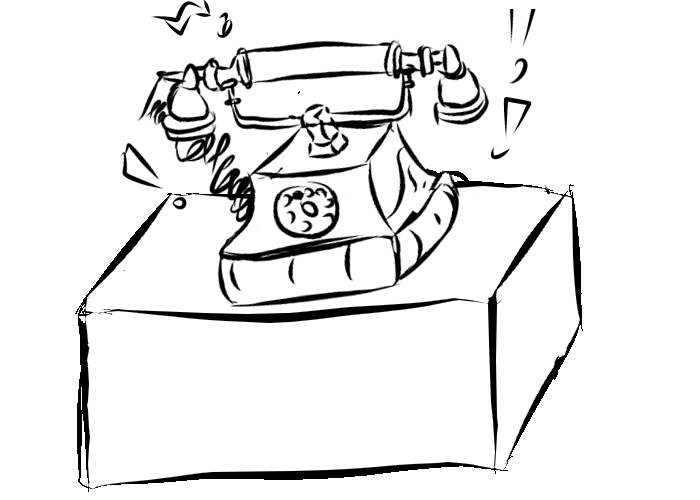
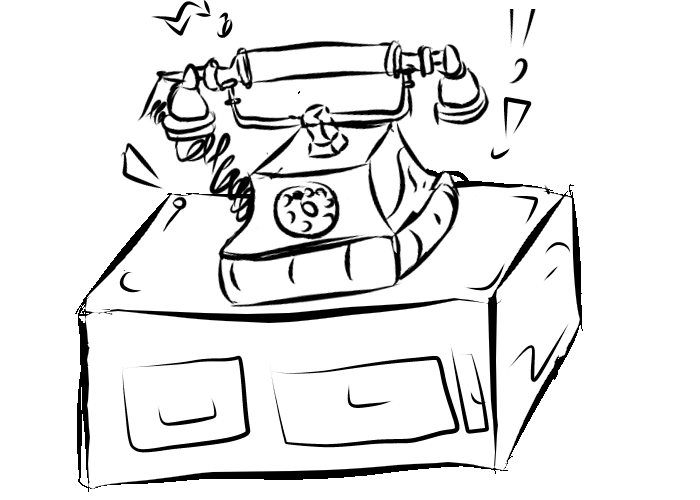
Change backGR adding phone door candle

diff --git a/main.py b/main.py
@@ -6,6 +6,7 @@ from kivy.clock import Clock
 from kivy.core.audio import SoundLoader
 from kivy.uix.label import Label
 from kivy.animation import Animation
+from kivy.uix.image import Image 
 
 class ClockDisplay :
     def __init__(self,hourv,minutev):
@@ -28,7 +29,6 @@ class NumberDisplay:
     def tick(self):
         self.v = self.v + 1        
 
-
 class Gamewidget(Widget):
     def __init__(self,**kwargs):
         super().__init__(**kwargs)
@@ -36,11 +36,12 @@ class Gamewidget(Widget):
         self._keyboard.bind(on_key_down=self._on_key_down)
         self._keyboard.bind(on_key_up=self._on_key_up)
         self.clock_display = ClockDisplay(0, 0)
-        self.clock_label = Label(text='', font_size=20, pos=(20, Window.height - 1))
-        self.add_widget(self.clock_label)
         self.register_event_type('on_frame')
+        
+
         with self.canvas :
-            pass
+            Rectangle(source='BackGR1.png',pos=(0,0),size=(Window.width,Window.height))
+            self.clock_label = Label(text='', font_size=20, pos=(20, Window.height - 100))
         
         self.soundBack = SoundLoader.load('backgroundsound1.wav')
         if self.soundBack:
@@ -52,8 +53,8 @@ class Gamewidget(Widget):
         self.keysPressed = set()
         self._entities = set()
 
-        Clock.schedule_interval(self._on_frame,0.45)
-        Clock.schedule_interval(self.update_clock_label, 1.5)
+        Clock.schedule_interval(self._on_frame,0.375)
+        Clock.schedule_interval(self.update_clock_label, 1)
 
         
     def _on_frame(self,dt):
@@ -144,17 +145,48 @@ class Entity(object):
         self._source = value
         self._instruction.source = self._source
 
-class Phone(Entity) :     
+class Door(Entity):
+    def __init__(self):
+        super().__init__()
+        self.source = 'door.png'
+        self.size = (110,250)
+        self.pos = (340,160)
+    def on_frame(self, dt=None):
+        pass
+
+class Candle(Entity):
+    def __init__(self):
+        super().__init__()
+        self.source = 'candle1.png'
+        self.size = (100,120)
+        self.pos = (100,250)
+        self.lst_source = ['candle1.png', 'candle2.png', 'candle3.png', 'candle4.png', 'candle5.png', 'candle6.png', 'candle7.png']
+        self.animation_interval = 0.08
+        self.animate_candle()
+    def on_frame(self, dt=None):
+        pass   
+
+    def animate_candle(self, dt=None):
+        current_index = self.lst_source.index(self.source)
+        next_index = (current_index + 1) % len(self.lst_source)
+        self.source = self.lst_source[next_index]
+        Clock.schedule_once(self.animate_candle, self.animation_interval)
+
+class Phone(Entity) :    
     def __init__(self):
         super().__init__()
         self.source = 'phone1.png'
+        self.size = (200,180)
+        self.pos = (600,50)
+    def on_frame(self,dt=None):
+        pass
 
 class Player(Entity):
     def __init__(self):
         super().__init__()
         
         self.source = 'player.png'
-        self.size = (200, 400)
+        self.size = (150, 300)
         self.pos = (0, 0)
         self.moving_right = False
         self.moving_left = False
@@ -166,7 +198,6 @@ class Player(Entity):
         self.soundwalk3 = SoundLoader.load('stepfoot3.wav')
 
     def load_walk_images(self):
-        # Load walking images
         self.walk_images_right = ['RW1.png', 'RW2.png']
         self.walk_images_left = ['LW1.png', 'LW2.png']
         self.walk_index = 0
@@ -190,6 +221,8 @@ class Player(Entity):
         else:
             self.moving_left = False
             self.moving_right = False
+        newx = max(0, min(newx, Window.width - self.size[0]))
+        newy = max(0, min(newy, Window.height - self.size[1]))
 
         self.pos = (newx, newy)
 
@@ -216,10 +249,19 @@ class Player(Entity):
             self.soundwalk2.play()
 
 game = Gamewidget()
+game.door = Door()
+game.add_entity(game.door)
+game.phone = Phone()
+game.add_entity(game.phone)
+game.candle = Candle()
+game.add_entity(game.candle)
 game.player = Player()
-game.add_entity(game.player)        
+game.add_entity(game.player)
+
+
 class SleepWell(App):
     def build(self):
+        
         return game
 
 if __name__ == '__main__' :
